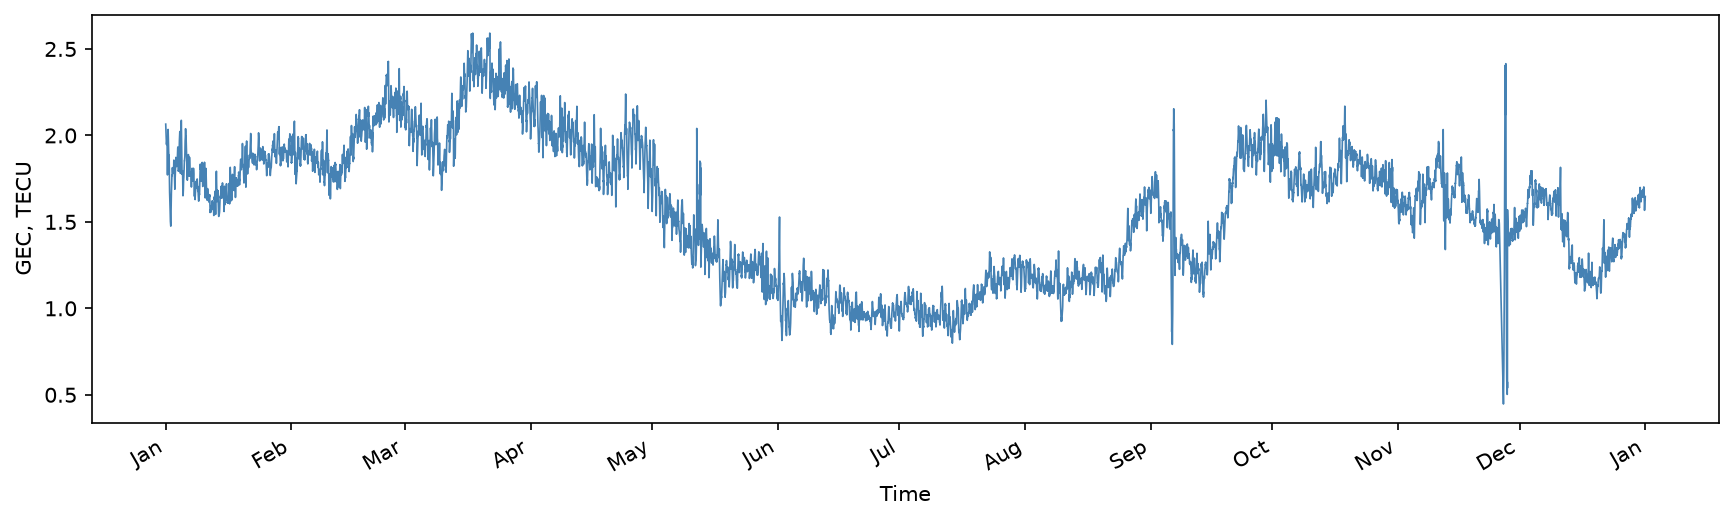
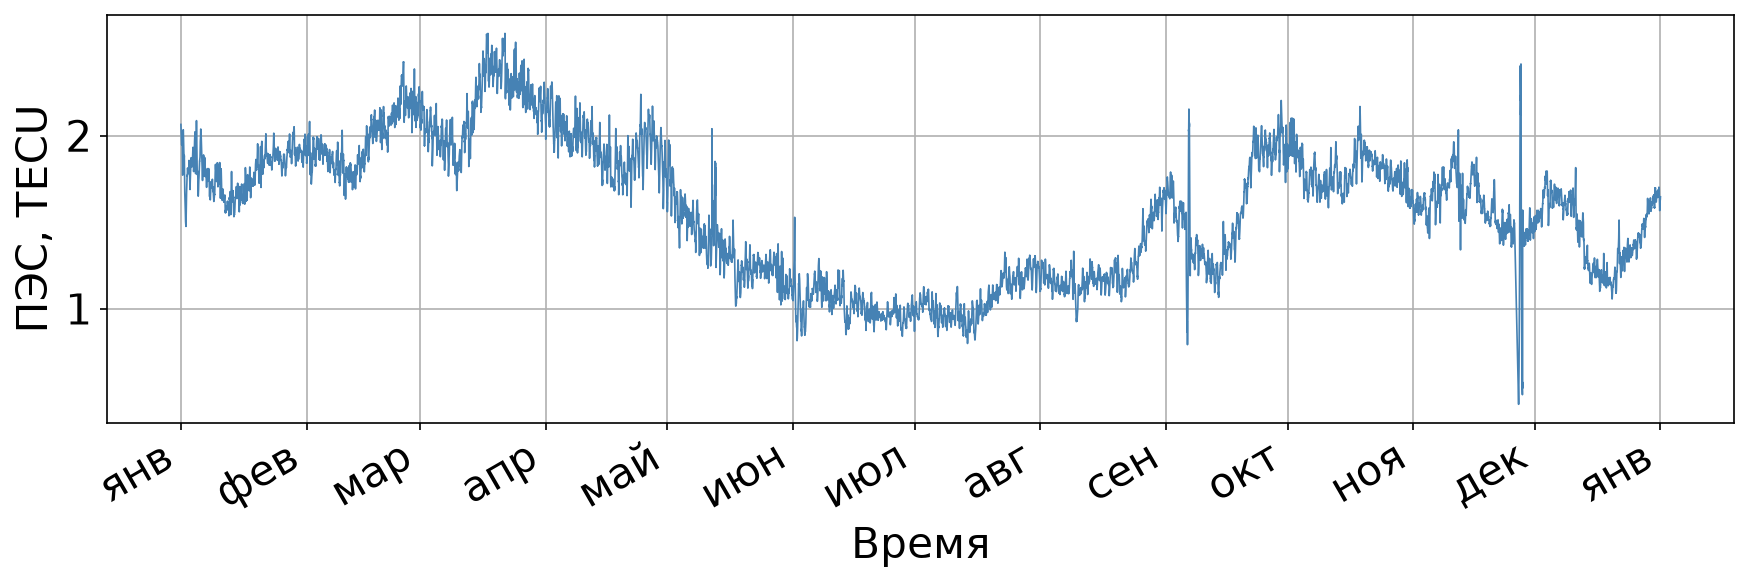
Добавление графика ПЭС в статью

diff --git a/paper/solar_influence_article.tex b/paper/solar_influence_article.tex
@@ -6,6 +6,8 @@
 \usepackage{amsmath}
 \usepackage{amssymb}
 \usepackage{booktabs}
+\usepackage{graphicx}
+\graphicspath{{../cache/plot/}}
 \usepackage{geometry}
 \geometry{left=2.5cm,right=2.5cm,top=2.5cm,bottom=2.5cm}
 \usepackage[numbers,sort&compress]{natbib}
@@ -13,7 +15,11 @@
 
 \title{Связь площади областей, похожих на корональные дыры,\\
 с полным электронным содержанием ионосферы}
-\author{Проект <<Solar Influence>>}
+\author{Борис Салимов\\
+\texttt{salimov@iszf.irk.ru}\\
+Институт Солнечно-Земной физики Сибирского отделения\\
+Российской академии наук,\\
+ул. Лермонтова, 126а, Иркутск, Россия}
 \date{\today}
 
 \begin{document}
@@ -59,6 +65,23 @@
 SIMuRG описана в работе
 \citet{yasyukevich2020simurg}. Ряд охватывает 2025~год; исходные значения
 ПЭС имеют 15-минутное разрешение.
+
+На рисунке~\ref{fig:gec} приведён весь использованный ряд ПЭС за 2025~год.
+Виден характерный сезонный ход: значения ПЭС повышены в конце зимы и весной,
+достигая максимума в апреле, а летом (июнь--июль) опускаются до минимальных
+значений около 1~TECU. Осенью ПЭС вновь возрастает, и до конца года
+сохраняется повышенный уровень. На этом медленном сезонном фоне заметны
+короткие всплески и провалы длительностью от нескольких часов до нескольких
+суток, связанные с геомагнитными возмущениями. Разрыв в ряду в конце ноября
+соответствует отсутствию данных за 26~ноября 2025~г.
+
+\begin{figure}[htbp]
+\centering
+\includegraphics[width=\textwidth]{gec.png}
+\caption{Полное электронное содержание (ПЭС) за 2025~год по данным SIMuRG:
+15-минутный ряд, значения в TECU.}
+\label{fig:gec}
+\end{figure}
 
 Обработанные изображения Солнца в радиодиапазоне 3~ГГц получены по данным
 Сибирского радиогелиографа \citep{lesovoi2017srh}. Изображения использовались

diff --git a/diary.md b/diary.md
@@ -226,3 +226,47 @@ FAIL: 2 hole times missing in GEC.
   из каталога `paper`: `pdflatex` → `bibtex` → `pdflatex` ×2.
 - Итог проверки: принято — код 0, неопределённых ссылок и ошибок LaTeX нет;
   данные и `checks/` не изменены, коммит не создан.
+
+## 2026-11-16 — увеличены шрифты на графике GEC
+- Запрос агенту:
+  Увеличить шрифты в 2 раза в `src/plot_gec.py` и перестроить график.
+- Что сделал агент:
+  Добавил `plt.rcParams.update(...)` с удвоением базового размера шрифта
+  (`font.size`, `axes.labelsize`, `axes.titlesize`, `xtick.labelsize`,
+  `ytick.labelsize`, `legend.fontsize` — 10 → 20 pt).
+- Результат:
+  `cache/plot/gec.png` перестроен, шрифты увеличены вдвое.
+- Точка проверки:
+  из корня: `.venv/bin/python src/plot_gec.py`.
+- Итог проверки: принято — код 0, график сохранён; данные и `checks/`
+  не изменены, коммит не создан.
+
+## 2026-11-16 — надписи на графике GEC переведены на русский
+- Запрос агенту:
+  Сделать надписи на графике в `src/plot_gec.py` на русском языке.
+- Что сделал агент:
+  Оси подписаны «Время» и «ПЭС, TECU»; месячные деления заменены на
+  русские сокращения (`янв`…`дек`) через `FuncFormatter`; явно задан
+  шрифт `DejaVu Sans` с поддержкой кириллицы.
+- Результат:
+  `cache/plot/gec.png` перестроен с русскими надписями.
+- Точка проверки:
+  из корня: `.venv/bin/python src/plot_gec.py`.
+- Итог проверки: принято — код 0, график сохранён; данные и `checks/`
+  не изменены, коммит не создан.
+
+## 2026-11-16 — график GEC добавлен в раздел «Данные» статьи
+- Запрос агенту:
+  Добавить в раздел «Данные» `paper/solar_influence_article.tex` график
+  `cache/plot/gec.png` и его описание.
+- Что сделал агент:
+  Подключён `graphicx`, задан `\graphicspath{{../cache/plot/}}`; после
+  описания ряда ПЭС добавлен рисунок `fig:gec` с подписью и абзац с
+  описанием сезонного хода, короткопериодных возмущений и разрыва
+  26 ноября 2025 г.
+- Результат:
+  `paper/solar_influence_article.pdf` пересобран, рисунок включён.
+- Точка проверки:
+  из каталога `paper`: `latexmk -g -pdf -interaction=nonstopmode -halt-on-error solar_influence_article.tex`.
+- Итог проверки: принято — код 0, в логе `[2 <../cache/plot/gec.png>]`;
+  данные и `checks/` не изменены, коммит не создан.

diff --git a/STATUS.md b/STATUS.md
@@ -21,9 +21,19 @@ Cranmer & Winebarger (2019) (arXiv:1811.00461).
 `pdflatex` → `bibtex` → `pdflatex` ×2, код 0, предупреждений об
 неопределённых ссылках нет.
 
+В `src/plot_gec.py` шрифты увеличены в 2 раза (10 → 20 pt через
+`plt.rcParams`), надписи переведены на русский: оси «Время» и «ПЭС, TECU»,
+месяцы `янв`…`дек`; график `cache/plot/gec.png` перестроен,
+`.venv/bin/python src/plot_gec.py` — код 0.
+
+В раздел «Данные» статьи добавлен рисунок `fig:gec` (`cache/plot/gec.png`)
+с описанием сезонного хода ПЭС, короткопериодных возмущений и разрыва
+26 ноября 2025 г.; подключён `graphicx` и `\graphicspath{{../cache/plot/}}`.
+
 ## Дальше
-Проверка человеком содержания и оформления статьи; при необходимости —
-правка формулировок и bib-записей. Коммит — только по указанию человека.
+Проверка человеком содержания и оформления статьи и графика; при
+необходимости — правка формулировок, bib-записей и размера шрифтов.
+Коммит — только по указанию человека.
 
 ## Действует
 - `data/gec-0km-2025.csv`, `data/holes.csv`, `checks/` — только чтение.
